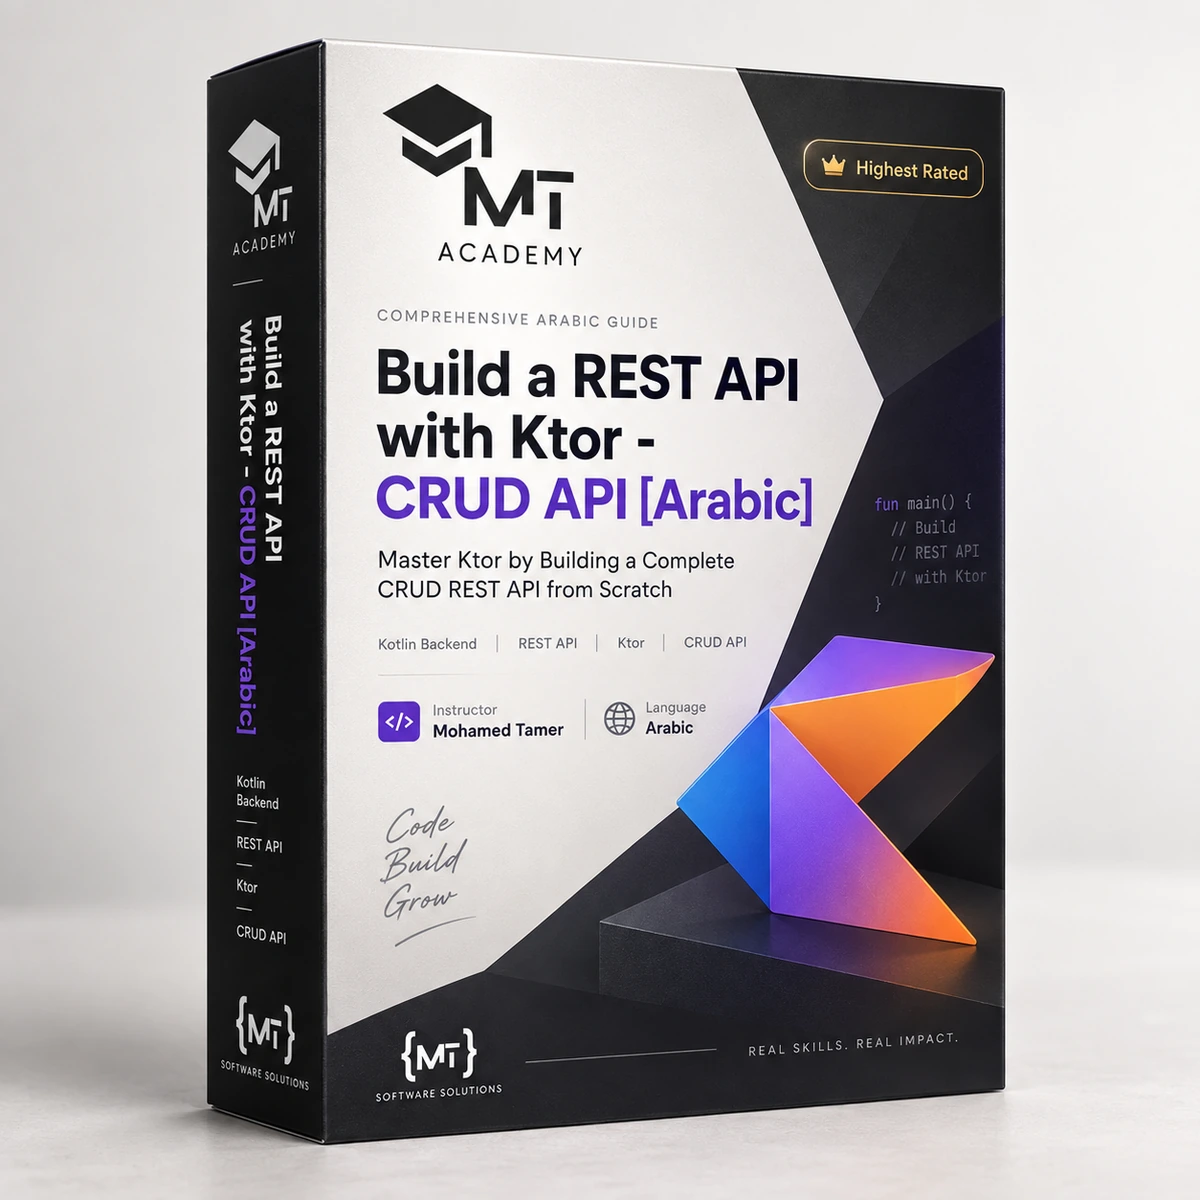
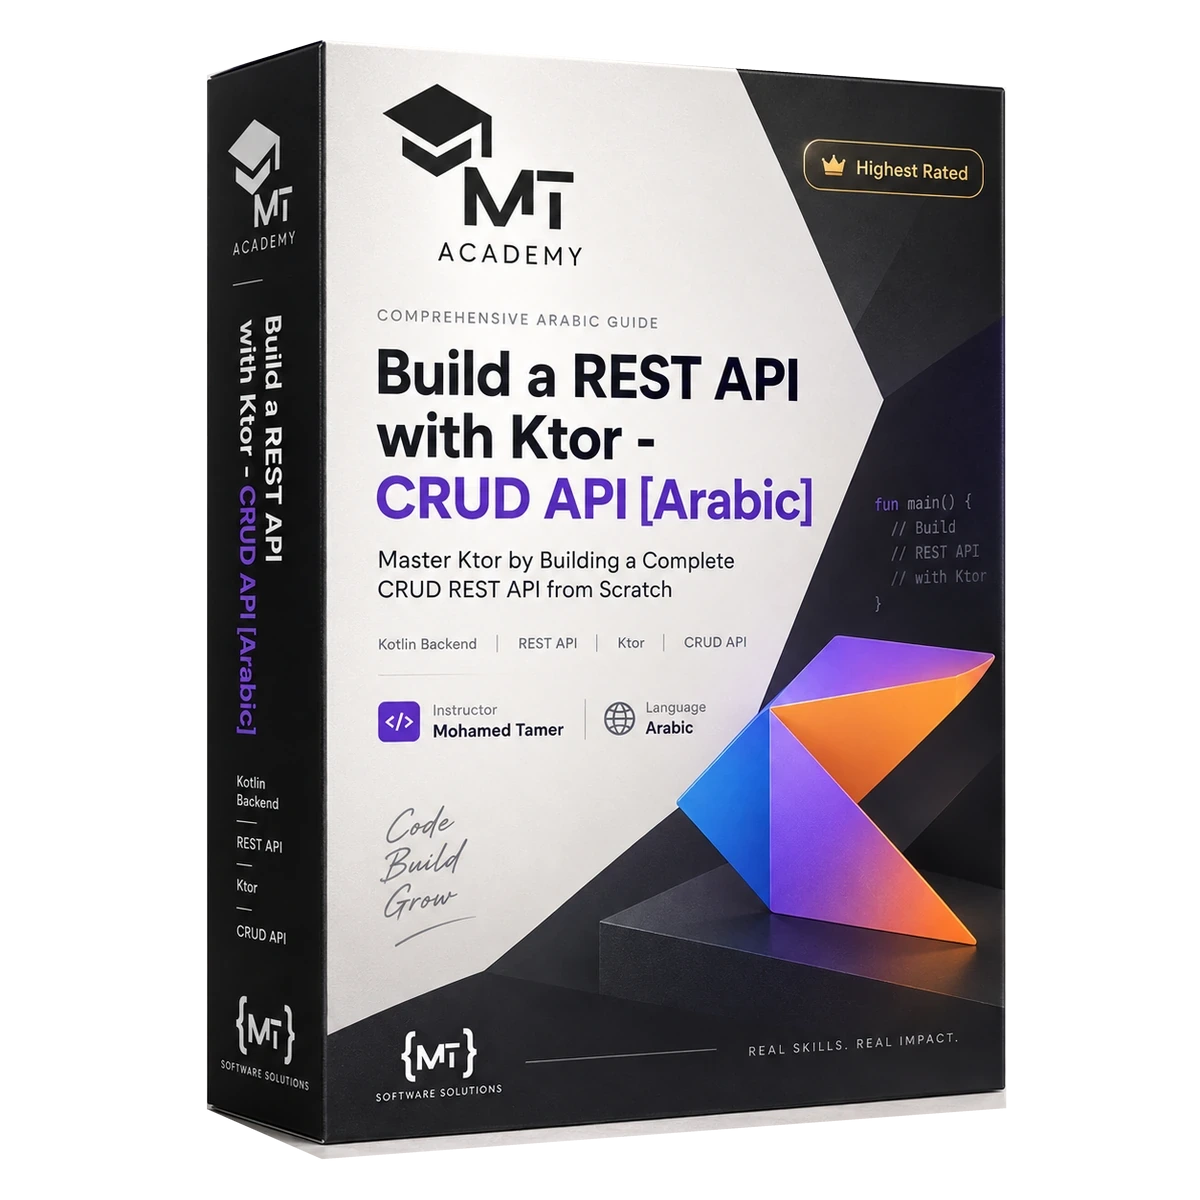
feat: refresh course artwork and improve card presentation
- replace all six course covers with premium artwork
- remove cover backgrounds and preserve WebP transparency
- redesign the social sharing preview
- compact course-card spacing across responsive layouts
- display complete course artwork without cropping
- document transparent course-image requirements

Changed region(s): [[0.0, 0.0, 1.0, 1.0], [0.8325, 0.5858, 1.0, 0.74]]

diff --git a/assets/css/styles.css b/assets/css/styles.css
@@ -1326,7 +1326,7 @@ body.promotion-dialog-open .promotion-flag {
 .course-card__media {
   position: relative;
   display: grid;
-  aspect-ratio: 4 / 3;
+  aspect-ratio: 16 / 10;
   place-items: center;
   overflow: hidden;
   border-block-end: 1px solid var(--border);
@@ -1338,7 +1338,7 @@ body.promotion-dialog-open .promotion-flag {
 .course-card__media::after {
   position: absolute;
   inset: auto 0 0;
-  height: 25%;
+  height: 18%;
   background: linear-gradient(to top, rgba(10, 10, 10, 0.08), transparent);
   content: "";
   pointer-events: none;
@@ -1346,6 +1346,8 @@ body.promotion-dialog-open .promotion-flag {
 
 .course-card__image,
 .course-card__media img {
+  position: absolute;
+  inset: 0;
   width: 100%;
   height: 100%;
   object-fit: contain;
@@ -1428,11 +1430,11 @@ body.promotion-dialog-open .promotion-flag {
   min-width: 0;
   flex: 1;
   flex-direction: column;
-  padding: var(--space-5);
+  padding: var(--space-4);
 }
 
 .course-card__category {
-  margin-block-end: var(--space-3);
+  margin-block-end: var(--space-2);
   color: var(--green);
   font-size: var(--text-xs);
   font-weight: 800;
@@ -1441,8 +1443,8 @@ body.promotion-dialog-open .promotion-flag {
 
 .course-card__title {
   display: -webkit-box;
-  min-height: 3.84em;
-  margin-block-end: var(--space-3);
+  min-height: 0;
+  margin-block-end: var(--space-2);
   overflow: hidden;
   font-size: clamp(1.2rem, 1.05rem + 0.55vw, 1.5rem);
   letter-spacing: -0.025em;
@@ -1468,7 +1470,7 @@ body.promotion-dialog-open .promotion-flag {
   display: flex;
   flex-wrap: wrap;
   gap: 0.4rem;
-  margin-block-end: var(--space-4);
+  margin-block: 0 var(--space-3);
   padding: 0;
   list-style: none;
 }
@@ -1547,13 +1549,13 @@ body.promotion-dialog-open .promotion-flag {
 
 .course-card__description {
   display: -webkit-box;
-  margin-block-end: var(--space-5);
+  margin-block-end: var(--space-3);
   overflow: hidden;
   color: var(--text-muted);
   font-size: var(--text-sm);
-  line-height: 1.75;
+  line-height: 1.6;
   -webkit-box-orient: vertical;
-  -webkit-line-clamp: 3;
+  -webkit-line-clamp: 2;
 }
 
 .course-rating {
@@ -1564,7 +1566,7 @@ body.promotion-dialog-open .promotion-flag {
   align-items: center;
   flex-wrap: wrap;
   gap: 0.35rem;
-  margin-block: 0 var(--space-4);
+  margin-block: 0 var(--space-3);
   direction: ltr;
   font-size: var(--text-sm);
 }
@@ -1603,7 +1605,7 @@ body.promotion-dialog-open .promotion-flag {
   display: flex;
   flex-wrap: wrap;
   gap: var(--space-2) var(--space-4);
-  margin-block: auto var(--space-5);
+  margin-block: 0 var(--space-4);
   padding: 0;
   color: var(--text-subtle);
   font-size: var(--text-xs);
@@ -1635,7 +1637,7 @@ body.promotion-dialog-open .promotion-flag {
   display: flex;
   align-items: center;
   gap: var(--space-3);
-  margin-block-start: auto;
+  margin-block-start: 0;
 }
 
 .course-card__actions .button {
@@ -3323,6 +3325,18 @@ html[lang="ar"] .promotion-dialog__label {
   .course-grid {
     grid-template-columns: repeat(3, minmax(0, 1fr));
     gap: var(--space-6);
+  }
+
+  .course-card__title {
+    min-height: 2.56em;
+  }
+
+  .course-card__description {
+    -webkit-line-clamp: 3;
+  }
+
+  .course-card__actions {
+    margin-block-start: auto;
   }
 }
 

diff --git a/README.md b/README.md
@@ -127,7 +127,7 @@ When adding a course:
 
 1. Copy an existing course object.
 2. Assign a unique `id` and URL-safe `slug`.
-3. Add the course image to `assets/images/courses/`.
+3. Add the course image to `assets/images/courses/` as a transparent WebP cutout.
 4. Update the image path, alternative text, width, and height.
 5. Provide both Arabic and English translations for every visible field.
 6. Use complete `https://` URLs for enrollment links.
@@ -139,10 +139,12 @@ Do not publish prices, discounts, student counts, certificates, or similar claim
 
 ## Image guidelines
 
-- Course artwork: `1200 × 1200` WebP, optimized for the web and using the filename configured in the course object
+- Course artwork: `1200 × 1200` WebP with alpha transparency, optimized for the web and using the filename configured in the course object
 - Main logo: `assets/images/brand/mt-academy-logo.jpg` at `1000 × 1000`
 - Social preview: `assets/images/brand/social-preview.png` at `1200 × 630`
 - Payment artwork: `720 × 420` WebP
+
+Course artwork should retain the complete product-box composition while keeping the external studio background transparent. Preserve clean anti-aliased edges and enough transparent space around the product so `object-fit: contain` can display it without cropping, stretching, or exposing a conflicting rectangular background.
 
 Preserve exact filename casing because GitHub Pages paths are case-sensitive. When replacing an image, update its configured dimensions and localized alternative text when necessary.
 
